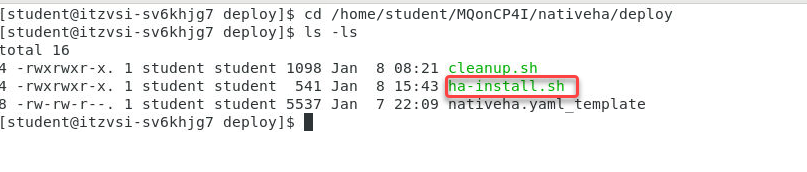
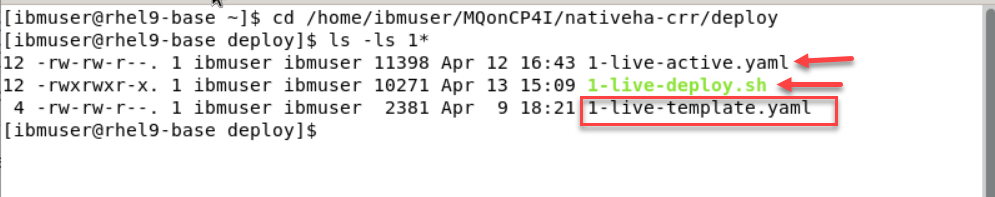
Update nativeha-CRR lab

Changed region(s): [[0.0, 0.0, 1.0, 1.0]]

diff --git a/MQ/Lab_1a-CRR/Readme.md b/MQ/Lab_1a-CRR/Readme.md
@@ -1,4 +1,4 @@
-## Lab 1A - NativeHA: Deploying a Cloud Native HA persistent IBM MQ Queue Manager on the Cloud Pak for Integration
+## Lab 1A - NativeHA: Deploying a container Native HA persistent IBM MQ Queue Manager on the Cloud Pak for Integration
 
 [Return to MQ lab page](../index.md)
 
@@ -13,13 +13,7 @@ A Native HA configuration consists of three Kubernetes pods, each with an instan
 A Kubernetes Service is used to route TCP/IP client connections to the current active instance, which is identified as being the only pod which is ready for network traffic. This happens without the need for the client application to be aware of the different instances.
 
 Three pods are used to greatly reduce the possibility of a split-brain situation arising. In a two-pod high availability system split-brain could occur when the connectivity between the two pods breaks. With no connectivity, both pods could run the queue manager at the same time, accumulating different data. When connection is restored, there would be two different versions of the data (a 'split-brain'), and manual intervention is required to decide which data set to keep, and which to discard.
-Native HA uses a three pod system with quorum to avoid the split-brain situation. Pods that can communicate with at least one of the other pods form a quorum. A queue manager can only become the active instance on a pod that has quorum. The queue manager cannot become active on a pod that is not connected to at least one other pod, so there can never be two active instances at the same time:
-
-* If a single pod fails, the queue manager on one of the other two pods can take over. If two pods fail, the queue manager cannot become the active instance on the remaining pod because the pod does not have quorum (the remaining pod cannot tell whether the other two pods have failed, or they are still running and it has lost connectivity).
-    
-* If a single pod loses connectivity, the queue manager cannot become active on this pod because the pod does not have quorum. The queue manager on one of the remaining two pods can take over, which do have quorum. If all pods lose connectivity, the queue manager is unable to become active on any of the pods, because none of the pods have quorum.
-
-If an active pod fails, and subsequently recovers, it can rejoin the group in a replica role.
+Native HA uses a three pod system with quorum to avoid the split-brain situation. 
 
 The following figure shows a typical deployment with three instances of a queue manager deployed in three containers.
 

diff --git a/MQ/Lab_1b-CRR/Readme.md b/MQ/Lab_1b-CRR/Readme.md
@@ -1,5 +1,7 @@
 # Lab 1b - NativeHA Cross Region Replication: Deploying a Cloud Native HA persistent IBM MQ Queue Manager between region clusters
 
+NativeHA: Deploying a container Native HA persistent IBM MQ Queue Manager on the Cloud Pak for Integration
+
 [Return to MQ lab page](../index.md)
 
 ![](./images/nativeha-crr-1.png)
@@ -46,12 +48,15 @@ The lab guide assumes you are using the RHEL desktop VM from the IBM Asset Repo.
 
 ## Deploy the MQ Queue Manager with associated resources
 
-1. Navigate to the *nativeHA* directory with the following command:
+1. Navigate to the *nativeha-crr* deploy directory with the following command and do the ls list command:
 
 	```sh
-	cd /home/ibmuser/MQonCP4I/nativeha/deploy
+	cd /home/ibmuser/MQonCP4I/nativeha-crr/deploy
+
+	ls -ls 1-*
 	```
 	
+1. Now you will 
 	![](./images/image1.png)
 	
 
